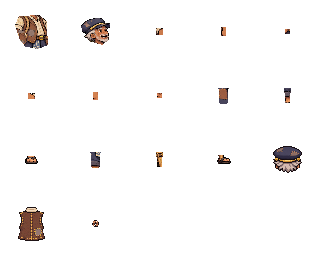
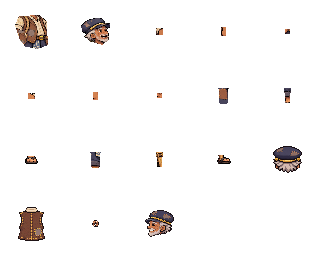
Complete Ujang transition foot handover and author original west head

Changed region(s): [[0.4375, 0.8125, 0.5625, 0.9375]]

diff --git a/tools/npc-rig/ujang_rear.py b/tools/npc-rig/ujang_rear.py
@@ -20,10 +20,11 @@ def pack():
         ('head_back', (180, 100, 600, 550), (29, 27), 14, [0, -81.5]),
         ('torso_back', None, (27, 34), 15, [0, -52.5]),
         ('hand_rod_west', (1710, 280, 1930, 470), (7, 7), 16, None),
+        ('head_west', 'west', (29, 27), 17, [-1, -81.5]),
     ]
     for name, box, size, cell, center in specs:
-        if box is None:
-            part = Image.open(SOURCE / 'generated-torso-v2.png').convert('RGBA')
+        if box is None or box == 'west':
+            part = Image.open(SOURCE / ('generated-west-head-v1.png' if box == 'west' else 'generated-torso-v2.png')).convert('RGBA')
             part.putalpha(part.getchannel('A').point(lambda a: 255 if a >= 128 else 0))
         else:
             part = raw.crop(box)
@@ -48,13 +49,14 @@ def pack():
                           'rodAxis': [[1.0, 6.0], [6.0, 1.0]], 'facing': 'west'})
         data['parts'][name] = entry
     data['atlas'] = 'res://resources/art/npc-rigs/ujang-rear-grip-v1.png'
-    data['method'] = 'Original portrait cutouts with original authored rear head/vest and west fishing fist override'
+    data['method'] = 'Original portrait cutouts with original authored rear head/vest, west head and fishing fist override'
     data['rearGripSource'] = {
         'path': 'assets/source-2d/ujang-rear-grip-v1/generated.png',
         'sha256': hashlib.sha256((SOURCE / 'generated.png').read_bytes()).hexdigest(),
         'torsoRevisionSha256': hashlib.sha256((SOURCE / 'generated-torso-v2.png').read_bytes()).hexdigest(),
+        'westHeadSha256': hashlib.sha256((SOURCE / 'generated-west-head-v1.png').read_bytes()).hexdigest(),
         'method': 'Built-in imagegen identity edit; inspected parts, nearest resize and original Ujang palette quantization',
-        'directions': 'Rear head/torso only; west fishing fist only; other directional art remains original cutout pilot',
+        'directions': 'Rear head/torso, west head and west fishing fist only; other directional body art remains unmirrored original cutout pilot',
     }
     atlas.save(OUT / 'ujang-rear-grip-v1.png')
     (OUT / 'ujang.json').write_text(json.dumps(data, indent=2) + '\n')

diff --git a/docs/reviews/06b2-ujang-transition-step.md b/docs/reviews/06b2-ujang-transition-step.md
@@ -1,0 +1,52 @@
+# 06-B2: Ujang transition steps and original west head
+
+This follows `38e88f6` and supersedes its held diagnostic result. No pelvis limit, fixed-length tolerance, world-contact tolerance or collision rule was relaxed. The default contact test now includes the formerly failing sharp-turn route, so it is covered by the existing registered CI invocation.
+
+## Mechanical cause and correction
+
+The old swing landing stayed on the old heading until its phase wrapped. On a sharp heading change, the body continued to consume the 25-unit distance cycle; the new support could be far from the reversed path before the scheduled lift. Reflecting the whole root at west facing also immediately exchanged hip screen sides while soles stayed world-locked.
+
+The rig retains positive anatomical scale. A turn greater than 60 degrees starts a short **6 physical-unit transition step** using the free foot. Its landing is redirected onto a legal point ahead of the new heading, while the supporting foot remains planted in world coordinates. On landing, the arriving foot becomes support and the previous support begins its swing immediately in that same frame. The phase restarts with the correct anatomical side in stance.
+
+That same-frame handover matters: an earlier version delayed `begin_swing()` until the next frame, leaving a newly free foot at its old position while its phase advanced. One remaining sample requested pelvis drop 8.27656. Beginning the released foot's swing at the handover removed it while preserving the original maximum drop 8. A planted foot is never slid or relabelled to hide an error.
+
+Facing and lateral foot placement use the actual camera basis and a local finite-difference inverse of `map_point()`. The camera helper, WORLD, routes, actor root position and server state are unchanged. Tests rotate the actual 3D camera to 0 and -45 degrees; they do not patch projection callbacks.
+
+## Original west head
+
+An original 29 × 27 west head now replaces the wrong-facing fallback. The built-in image tool referenced Ujang's original portrait and approved rear cap. The navy cap, gold trim, grey hair and aged face remain recognisable; the nose and eyes actually point left in the new art. The wooden right leg remains the original unreflected artwork.
+
+Source, exact prompt and derived part are stored under `assets/source-2d/ujang-rear-grip-v1/`; the project's original-art licence applies. The atlas contains eighteen Ujang parts, fifty total across the three existing pilots. No external character asset, PixelDoll result, paid API key or third-party code is used.
+
+## Final verification
+
+Godot 4.7.2 Compatibility on Apple M2, isolated worktree. Import, tests and native captures ran serially under the assigned engine slot. Complete final logs were scanned for `SCRIPT ERROR`, `ERROR:` and assertion failures; none are present.
+
+| Final check | Result |
+| --- | --- |
+| Default `ujang-foot-contact.gd` | PASS: 1,242 checked samples, comprising the original 1,074 commute/stop/stair/boundary samples and 168 sharp-turn samples |
+| Actual alpha-sole stance drift | Maximum 0.000306342 world units in the default run |
+| Actual thigh/calf quad knee join | Maximum 0.000272985 |
+| Pelvis drop | Maximum 7.04096 in the full run, below the unchanged limit 8 |
+| Native focused sharp turns | PASS: 168 sequential 90/180-degree samples at camera 0/-45, normal/reduced motion; stance drift maximum 0.000309897, pelvis maximum 5.00486 |
+| Support and identity | Every measured sample retains a grounded support foot; root determinant positive; right prosthetic lower leg and foot are not reflected |
+| Independent grip | PASS: 26 poses, finger-to-actual-cylinder distance maximum 0.01538721 and axis error below 0.05 degrees |
+| Body animation contract | PASS: fifty modular parts, pause/reduced, clip/event and distance-gait contract |
+| World/player mutation | None in the compared snapshots |
+
+Final ignored logs: `.runtime/ujang-transition-import.log`, `.runtime/ujang-transition-final-full.log`, `.runtime/ujang-transition-final-native.log`, `.runtime/ujang-transition-animation.log`. Earlier logs containing failed experiments are historical and are not the final evidence.
+
[1 lines of base64/hex data omitted]
+
+Native evidence: `artifacts/godot/06b-body-contact/0000.png` through `0175.png` form a sequential 17.6-second record at the fixture's 10 Hz simulation rate, including eight initial settled samples and 168 turn samples. `transition-contact-sheet.png` shows eight points from each camera/motion combination. `grip-false-work_loop-2.0.png` shows the new west head and independent fishing prop at actual 480 × 270 resolution. These are moving turn samples, not sixteen repeated direction stills presented as locomotion proof.
+
+The full log is the default CI command. `UJANG_TURNS_ONLY=1` remains a convenience for the same focused cases and now exits 0; it no longer hides an unfixed case from CI. `UJANG_CAPTURE=1 UJANG_TURNS_ONLY=1` records the native sequence.
+
+## Remaining scope and gate
+
+The head, torso rear and fist additions do not create a fully authored four-direction body. Rear legs and side torso remain cutouts; silhouette and timing may still benefit from a complete directional art pass. No Darmi/Sari expansion, new shelters, performance benchmark or physical Windows/S23 result is claimed here.
+
+- Hard Gate PASS: authorised original art with source/prompt/licence; final runs were executed and errors checked, without invented performance claims.
+- Purpose Gate PASS: new head fixes visible direction; the transition changes support timing rather than disguising limb reach.
+- Liveliness PASS: existing comfy maritime pixel direction retained, with essential distance-driven gait in reduced motion. Energy 2 / rhythm 2 / motion 2 remain the pilot direction.
+- Craftsmanship PASS: the original trace and newly failing turn cases both pass unchanged geometry limits, and sequential actual-size native captures show the source being committed.

diff --git a/tools/npc-rig/README.md b/tools/npc-rig/README.md
@@ -4,7 +4,7 @@
 
 Outputs live in `client-godot/resources/art/npc-rigs/`. The original PNGs contain sixteen parts; JSON records source SHA-256, sampled joints, foot pivot and atlas regions. Ujang, Darmi and Sari retain their original front facial/clothing pixels. Covered clothing is patched with samples from the same portrait; held net, pot and fabric roll are excluded from the torso masks. Independent runtime props attach to computed hand sockets, except the authored Ujang west fishing pilot described below.
 
-Ujang's head and torso rear are overridden by the reviewed `ujang-rear-grip-v1` original artwork; his atlas has one additional west fishing fist, for seventeen parts. The generator applies `ujang_rear.py` after the original cutouts. Source, prompt and annotation details are in `assets/source-2d/ujang-rear-grip-v1/README.md`. Darmi and Sari retain simplified rear silhouettes using sampled colours. East/west still reuse mirrored three-quarter artwork. These are articulated cutouts, not newly illustrated four-direction animation sheets. Original cutout masks can retain small fragments of baked sleeves/props; native review remains necessary.
+Ujang's head and torso rear are overridden by the reviewed `ujang-rear-grip-v1` original artwork; his atlas adds a west fishing fist and original west head, for eighteen parts. The generator applies `ujang_rear.py` after the original cutouts. Source, prompt and annotation details are in `assets/source-2d/ujang-rear-grip-v1/README.md`. The land rig keeps Ujang's anatomical root positive and selects his newly drawn west head without reflecting the wooden right leg. Darmi and Sari retain simplified rear silhouettes and their earlier mirrored side fallback. These are articulated cutouts, not newly illustrated four-direction animation sheets. Original cutout masks can retain small fragments of baked sleeves/props; native review remains necessary.
 
 The generator and runtime rig are original project code. The input and derived artwork keep the project's existing original-art terms; no Dave the Diver frame, foreign character sprite or upstream tool code is included. Pillow is an external development dependency, not vendored here.
 

diff --git a/docs/assets/provenance.md b/docs/assets/provenance.md
@@ -73,3 +73,5 @@ High-resolution original outputs stay outside runtime in `assets/source-2d/nala-
 The built-in image tool generated a rear head, rear vest and one west fishing fist from Ujang's original resident portrait and existing cutout atlas. A second torso edit removed baked sleeves to keep arms articulated. The navy sailor cap, gold trim, grey hair and patched waistcoat retain his identity; the original wooden leg parts are unchanged. Sources, exact prompts and annotations are preserved under `assets/source-2d/ujang-rear-grip-v1/`. Original-art terms in `LICENSE` section 2 apply. No external character sprite, upstream code, PixelDoll output, Sprite AI job or external API credential was used.
 
 `tools/npc-rig/ujang_rear.py` thresholds alpha, resizes with nearest sampling, quantizes to the original Ujang palette and packs `resources/art/npc-rigs/ujang-rear-grip-v1.png`. The original `ujang.png` remains intact. This adds one fist to the sixteen-part rig and replaces only the two old rear placeholders. It does not create four authored views: E/W still mirror the three-quarter source and rear limbs remain cutouts. The independently annotated fist/rod test and final actual-size native evidence are described in `docs/reviews/06b2-ujang-rear-grip.md`; mathematical contact does not imply natural walking is complete.
+
+The subsequent turn increment adds an original west head from the same built-in tool, with `generated-west-head-v1.png`, `prompt-west-head-v1.txt` and packed `head_west.png` preserved in that source directory. Ujang now has eighteen parts and an unreflected anatomical land rig, so his wooden right leg is not exchanged when facing west. The actual west artwork looks left; other body sides remain cutouts. `docs/reviews/06b2-ujang-transition-step.md` records the final 1,242 contact samples, including the formerly failing 168 sharp turns, and sequential native evidence. This supersedes the earlier seventeen-part direction fallback description without claiming four fully authored body views.

diff --git a/assets/source-2d/ujang-rear-grip-v1/README.md b/assets/source-2d/ujang-rear-grip-v1/README.md
@@ -11,3 +11,5 @@ The runtime north head has its own centre `[0, -81.5]`; the north torso uses `[0
 The 7 × 7 west fist was inspected after packing. Its `gripPixel` `[3.5, 3.5]` is the centre of an opaque finger pixel. `wristPixel` `[3.5, 6]` is at the bottom wrist; `rodAxis` runs from `[1, 6]` towards `[6, 1]` through the curled fingers. Pixel coordinates are measured from the cropped part's top-left edge. The rod is drawn behind the fist; the fist does not contain a baked rod. These annotations are artwork coordinates, not a hand socket used to construct the rod geometry.
 
 Reproduce packing with `python3 tools/npc-rig/ujang_rear.py`. Running the full original cutout generator also applies this override after regenerating the three original atlases. Native rendering and mesh contact tests are still required for acceptance.
+
+The turn follow-up adds `generated-west-head-v1.png`, made with the same built-in tool from the original resident image and approved rear source. Its exact prompt is `prompt-west-head-v1.txt`. The packed original `head_west.png` is 29 × 27 with centre `[-1, -81.5]`, in cell 17. Nose and eyes look left in the actual artwork; no mirroring is needed. Ujang now has eighteen parts. This supplies a west head, not a complete independently drawn west body. See `docs/reviews/06b2-ujang-transition-step.md` for final native review and the unchanged original-art terms.

diff --git a/docs/reviews/06b2-ujang-turn-diagnostic.md b/docs/reviews/06b2-ujang-turn-diagnostic.md
@@ -1,5 +1,7 @@
 # 06-B2: anatomical facing candidate and unfinished turns
 
+Historical checkpoint: the 36 failing samples and east-looking west fallback below were subsequently addressed by the transition step and original west head. See [final transition-step review](06b2-ujang-transition-step.md). The diagnostic is retained and now also runs in the default contact test; it is no longer excluded from the CI path.
+
 This follow-up is held in the isolated body worktree after `05a38bb`. It is **not accepted for release**. The added no-stop turn diagnostic fails; the existing commute test remains green. Keeping those facts separate avoids mistaking an improvement in a transform invariant for completed natural walking.
 
 ## Confirmed source issue and bounded changes

diff --git a/docs/reviews/06b2-ujang-rear-grip.md b/docs/reviews/06b2-ujang-rear-grip.md
@@ -1,5 +1,7 @@
 # 06-B2: Ujang rear artwork and independent fishing grip
 
+Later increment: the [transition-step review](06b2-ujang-transition-step.md) adds the original west head, keeps the anatomical root unreflected, and passes the sharp-turn diagnostic in the default contact test. Counts and hashes below identify this earlier seventeen-part art checkpoint; the later atlas has eighteen parts.
+
 Candidate on isolated branch `work/06b-body-next`, based on main `1f097cc` with the earlier foot-contact pilot and art audit cherry-picked first. This is a reviewable Ujang-only increment. It is not a four-direction artwork pack or acceptance of natural walking for every resident.
 
 ## What changes
